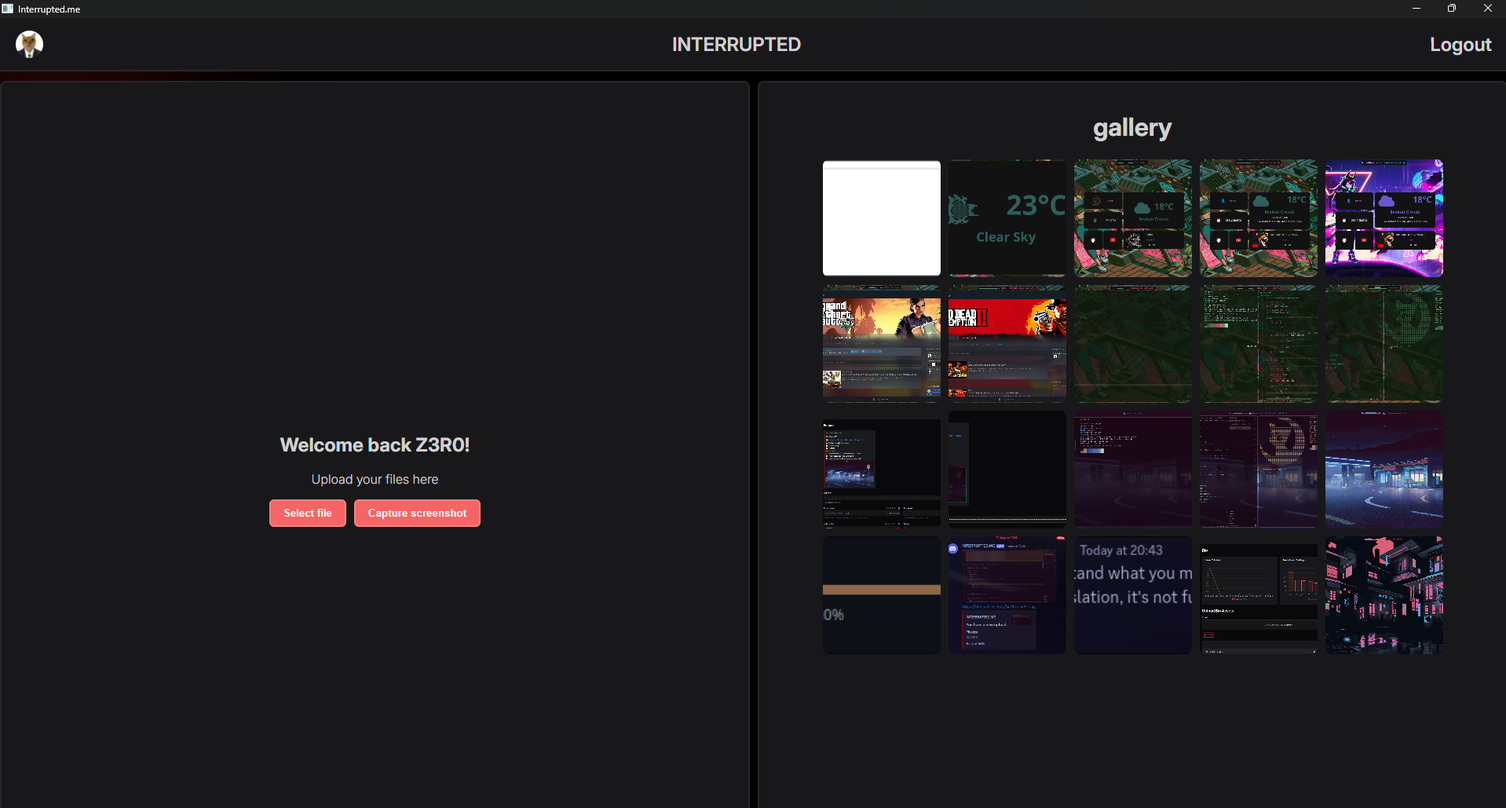
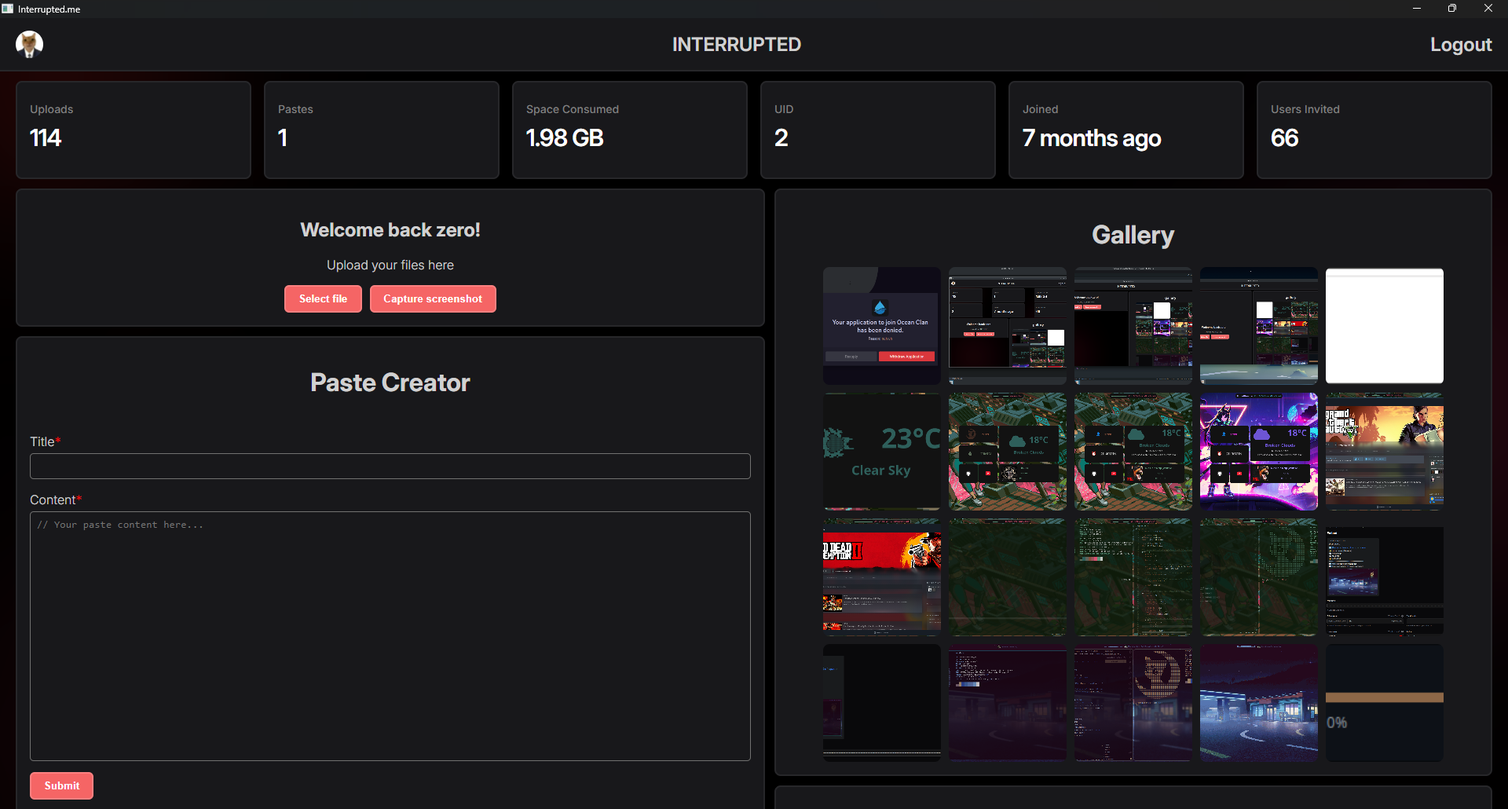
add url shortener

diff --git a/src/views/assets/dist/bundle.js b/src/views/assets/dist/bundle.js
@@ -1,2 +1,2 @@
 /*! For license information please see bundle.js.LICENSE.txt */
-(()=>{var t={455:(t,e,o)=>{"use strict";o.d(e,{A:()=>r});var n=o(601),i=o.n(n),s=o(314),a=o.n(s)()(i());a.push([t.id,"/*!\n * Toastify js 1.12.0\n * https://github.com/apvarun/toastify-js\n * @license MIT licensed\n *\n * Copyright (C) 2018 Varun A P\n */\n\n.toastify {\n    padding: 12px 20px;\n    color: #ffffff;\n    display: inline-block;\n    box-shadow: 0 3px 6px -1px rgba(0, 0, 0, 0.12), 0 10px 36px -4px rgba(77, 96, 232, 0.3);\n    background: -webkit-linear-gradient(315deg, #73a5ff, #5477f5);\n    background: linear-gradient(135deg, #73a5ff, #5477f5);\n    position: fixed;\n    opacity: 0;\n    transition: all 0.4s cubic-bezier(0.215, 0.61, 0.355, 1);\n    border-radius: 2px;\n    cursor: pointer;\n    text-decoration: none;\n    max-width: calc(50% - 20px);\n    z-index: 2147483647;\n}\n\n.toastify.on {\n    opacity: 1;\n}\n\n.toast-close {\n    background: transparent;\n    border: 0;\n    color: white;\n    cursor: pointer;\n    font-family: inherit;\n    font-size: 1em;\n    opacity: 0.4;\n    padding: 0 5px;\n}\n\n.toastify-right {\n    right: 15px;\n}\n\n.toastify-left {\n    left: 15px;\n}\n\n.toastify-top {\n    top: -150px;\n}\n\n.toastify-bottom {\n    bottom: -150px;\n}\n\n.toastify-rounded {\n    border-radius: 25px;\n}\n\n.toastify-avatar {\n    width: 1.5em;\n    height: 1.5em;\n    margin: -7px 5px;\n    border-radius: 2px;\n}\n\n.toastify-center {\n    margin-left: auto;\n    margin-right: auto;\n    left: 0;\n    right: 0;\n    max-width: fit-content;\n    max-width: -moz-fit-content;\n}\n\n@media only screen and (max-width: 360px) {\n    .toastify-right, .toastify-left {\n        margin-left: auto;\n        margin-right: auto;\n        left: 0;\n        right: 0;\n        max-width: fit-content;\n    }\n}\n",""]);const r=a},314:t=>{"use strict";t.exports=function(t){var e=[];return e.toString=function(){return this.map((function(e){var o="",n=void 0!==e[5];return e[4]&&(o+="@supports (".concat(e[4],") {")),e[2]&&(o+="@media ".concat(e[2]," {")),n&&(o+="@layer".concat(e[5].length>0?" ".concat(e[5]):""," {")),o+=t(e),n&&(o+="}"),e[2]&&(o+="}"),e[4]&&(o+="}"),o})).join("")},e.i=function(t,o,n,i,s){"string"==typeof t&&(t=[[null,t,void 0]]);var a={};if(n)for(var r=0;r<this.length;r++){var c=this[r][0];null!=c&&(a[c]=!0)}for(var d=0;d<t.length;d++){var l=[].concat(t[d]);n&&a[l[0]]||(void 0!==s&&(void 0===l[5]||(l[1]="@layer".concat(l[5].length>0?" ".concat(l[5]):""," {").concat(l[1],"}")),l[5]=s),o&&(l[2]?(l[1]="@media ".concat(l[2]," {").concat(l[1],"}"),l[2]=o):l[2]=o),i&&(l[4]?(l[1]="@supports (".concat(l[4],") {").concat(l[1],"}"),l[4]=i):l[4]="".concat(i)),e.push(l))}},e}},601:t=>{"use strict";t.exports=function(t){return t[1]}},72:t=>{"use strict";var e=[];function o(t){for(var o=-1,n=0;n<e.length;n++)if(e[n].identifier===t){o=n;break}return o}function n(t,n){for(var s={},a=[],r=0;r<t.length;r++){var c=t[r],d=n.base?c[0]+n.base:c[0],l=s[d]||0,p="".concat(d," ").concat(l);s[d]=l+1;var u=o(p),f={css:c[1],media:c[2],sourceMap:c[3],supports:c[4],layer:c[5]};if(-1!==u)e[u].references++,e[u].updater(f);else{var h=i(f,n);n.byIndex=r,e.splice(r,0,{identifier:p,updater:h,references:1})}a.push(p)}return a}function i(t,e){var o=e.domAPI(e);return o.update(t),function(e){if(e){if(e.css===t.css&&e.media===t.media&&e.sourceMap===t.sourceMap&&e.supports===t.supports&&e.layer===t.layer)return;o.update(t=e)}else o.remove()}}t.exports=function(t,i){var s=n(t=t||[],i=i||{});return function(t){t=t||[];for(var a=0;a<s.length;a++){var r=o(s[a]);e[r].references--}for(var c=n(t,i),d=0;d<s.length;d++){var l=o(s[d]);0===e[l].references&&(e[l].updater(),e.splice(l,1))}s=c}}},659:t=>{"use strict";var e={};t.exports=function(t,o){var n=function(t){if(void 0===e[t]){var o=document.querySelector(t);if(window.HTMLIFrameElement&&o instanceof window.HTMLIFrameElement)try{o=o.contentDocument.head}catch(t){o=null}e[t]=o}return e[t]}(t);if(!n)throw new Error("Couldn't find a style target. This probably means that the value for the 'insert' parameter is invalid.");n.appendChild(o)}},540:t=>{"use strict";t.exports=function(t){var e=document.createElement("style");return t.setAttributes(e,t.attributes),t.insert(e,t.options),e}},56:(t,e,o)=>{"use strict";t.exports=function(t){var e=o.nc;e&&t.setAttribute("nonce",e)}},825:t=>{"use strict";t.exports=function(t){if("undefined"==typeof document)return{update:function(){},remove:function(){}};var e=t.insertStyleElement(t);return{update:function(o){!function(t,e,o){var n="";o.supports&&(n+="@supports (".concat(o.supports,") {")),o.media&&(n+="@media ".concat(o.media," {"));var i=void 0!==o.layer;i&&(n+="@layer".concat(o.layer.length>0?" ".concat(o.layer):""," {")),n+=o.css,i&&(n+="}"),o.media&&(n+="}"),o.supports&&(n+="}");var s=o.sourceMap;s&&"undefined"!=typeof btoa&&(n+="\n/*# sourceMappingURL=data:application/json;base64,".concat(btoa(unescape(encodeURIComponent(JSON.stringify(s))))," */")),e.styleTagTransform(n,t,e.options)}(e,t,o)},remove:function(){!function(t){if(null===t.parentNode)return!1;t.parentNode.removeChild(t)}(e)}}}},113:t=>{"use strict";t.exports=function(t,e){if(e.styleSheet)e.styleSheet.cssText=t;else{for(;e.firstChild;)e.removeChild(e.firstChild);e.appendChild(document.createTextNode(t))}}},736:function(t){var e;e=function(t){var e=function(t){return new e.lib.init(t)};function o(t,e){return e.offset[t]?isNaN(e.offset[t])?e.offset[t]:e.offset[t]+"px":"0px"}function n(t,e){return!(!t||"string"!=typeof e||!(t.className&&t.className.trim().split(/\s+/gi).indexOf(e)>-1))}return e.defaults={oldestFirst:!0,text:"Toastify is awesome!",node:void 0,duration:3e3,selector:void 0,callback:function(){},destination:void 0,newWindow:!1,close:!1,gravity:"toastify-top",positionLeft:!1,position:"",backgroundColor:"",avatar:"",className:"",stopOnFocus:!0,onClick:function(){},offset:{x:0,y:0},escapeMarkup:!0,ariaLive:"polite",style:{background:""}},e.lib=e.prototype={toastify:"1.12.0",constructor:e,init:function(t){return t||(t={}),this.options={},this.toastElement=null,this.options.text=t.text||e.defaults.text,this.options.node=t.node||e.defaults.node,this.options.duration=0===t.duration?0:t.duration||e.defaults.duration,this.options.selector=t.selector||e.defaults.selector,this.options.callback=t.callback||e.defaults.callback,this.options.destination=t.destination||e.defaults.destination,this.options.newWindow=t.newWindow||e.defaults.newWindow,this.options.close=t.close||e.defaults.close,this.options.gravity="bottom"===t.gravity?"toastify-bottom":e.defaults.gravity,this.options.positionLeft=t.positionLeft||e.defaults.positionLeft,this.options.position=t.position||e.defaults.position,this.options.backgroundColor=t.backgroundColor||e.defaults.backgroundColor,this.options.avatar=t.avatar||e.defaults.avatar,this.options.className=t.className||e.defaults.className,this.options.stopOnFocus=void 0===t.stopOnFocus?e.defaults.stopOnFocus:t.stopOnFocus,this.options.onClick=t.onClick||e.defaults.onClick,this.options.offset=t.offset||e.defaults.offset,this.options.escapeMarkup=void 0!==t.escapeMarkup?t.escapeMarkup:e.defaults.escapeMarkup,this.options.ariaLive=t.ariaLive||e.defaults.ariaLive,this.options.style=t.style||e.defaults.style,t.backgroundColor&&(this.options.style.background=t.backgroundColor),this},buildToast:function(){if(!this.options)throw"Toastify is not initialized";var t=document.createElement("div");for(var e in t.className="toastify on "+this.options.className,this.options.position?t.className+=" toastify-"+this.options.position:!0===this.options.positionLeft?(t.className+=" toastify-left",console.warn("Property `positionLeft` will be depreciated in further versions. Please use `position` instead.")):t.className+=" toastify-right",t.className+=" "+this.options.gravity,this.options.backgroundColor&&console.warn('DEPRECATION NOTICE: "backgroundColor" is being deprecated. Please use the "style.background" property.'),this.options.style)t.style[e]=this.options.style[e];if(this.options.ariaLive&&t.setAttribute("aria-live",this.options.ariaLive),this.options.node&&this.options.node.nodeType===Node.ELEMENT_NODE)t.appendChild(this.options.node);else if(this.options.escapeMarkup?t.innerText=this.options.text:t.innerHTML=this.options.text,""!==this.options.avatar){var n=document.createElement("img");n.src=this.options.avatar,n.className="toastify-avatar","left"==this.options.position||!0===this.options.positionLeft?t.appendChild(n):t.insertAdjacentElement("afterbegin",n)}if(!0===this.options.close){var i=document.createElement("button");i.type="button",i.setAttribute("aria-label","Close"),i.className="toast-close",i.innerHTML="&#10006;",i.addEventListener("click",function(t){t.stopPropagation(),this.removeElement(this.toastElement),window.clearTimeout(this.toastElement.timeOutValue)}.bind(this));var s=window.innerWidth>0?window.innerWidth:screen.width;("left"==this.options.position||!0===this.options.positionLeft)&&s>360?t.insertAdjacentElement("afterbegin",i):t.appendChild(i)}if(this.options.stopOnFocus&&this.options.duration>0){var a=this;t.addEventListener("mouseover",(function(e){window.clearTimeout(t.timeOutValue)})),t.addEventListener("mouseleave",(function(){t.timeOutValue=window.setTimeout((function(){a.removeElement(t)}),a.options.duration)}))}if(void 0!==this.options.destination&&t.addEventListener("click",function(t){t.stopPropagation(),!0===this.options.newWindow?window.open(this.options.destination,"_blank"):window.location=this.options.destination}.bind(this)),"function"==typeof this.options.onClick&&void 0===this.options.destination&&t.addEventListener("click",function(t){t.stopPropagation(),this.options.onClick()}.bind(this)),"object"==typeof this.options.offset){var r=o("x",this.options),c=o("y",this.options),d="left"==this.options.position?r:"-"+r,l="toastify-top"==this.options.gravity?c:"-"+c;t.style.transform="translate("+d+","+l+")"}return t},showToast:function(){var t;if(this.toastElement=this.buildToast(),!(t="string"==typeof this.options.selector?document.getElementById(this.options.selector):this.options.selector instanceof HTMLElement||"undefined"!=typeof ShadowRoot&&this.options.selector instanceof ShadowRoot?this.options.selector:document.body))throw"Root element is not defined";var o=e.defaults.oldestFirst?t.firstChild:t.lastChild;return t.insertBefore(this.toastElement,o),e.reposition(),this.options.duration>0&&(this.toastElement.timeOutValue=window.setTimeout(function(){this.removeElement(this.toastElement)}.bind(this),this.options.duration)),this},hideToast:function(){this.toastElement.timeOutValue&&clearTimeout(this.toastElement.timeOutValue),this.removeElement(this.toastElement)},removeElement:function(t){t.className=t.className.replace(" on",""),window.setTimeout(function(){this.options.node&&this.options.node.parentNode&&this.options.node.parentNode.removeChild(this.options.node),t.parentNode&&t.parentNode.removeChild(t),this.options.callback.call(t),e.reposition()}.bind(this),400)}},e.reposition=function(){for(var t,e={top:15,bottom:15},o={top:15,bottom:15},i={top:15,bottom:15},s=document.getElementsByClassName("toastify"),a=0;a<s.length;a++){t=!0===n(s[a],"toastify-top")?"toastify-top":"toastify-bottom";var r=s[a].offsetHeight;t=t.substr(9,t.length-1),(window.innerWidth>0?window.innerWidth:screen.width)<=360?(s[a].style[t]=i[t]+"px",i[t]+=r+15):!0===n(s[a],"toastify-left")?(s[a].style[t]=e[t]+"px",e[t]+=r+15):(s[a].style[t]=o[t]+"px",o[t]+=r+15)}return this},e.lib.init.prototype=e.lib,e},t.exports?t.exports=e():this.Toastify=e()}},e={};function o(n){var i=e[n];if(void 0!==i)return i.exports;var s=e[n]={id:n,exports:{}};return t[n].call(s.exports,s,s.exports,o),s.exports}o.n=t=>{var e=t&&t.__esModule?()=>t.default:()=>t;return o.d(e,{a:e}),e},o.d=(t,e)=>{for(var n in e)o.o(e,n)&&!o.o(t,n)&&Object.defineProperty(t,n,{enumerable:!0,get:e[n]})},o.o=(t,e)=>Object.prototype.hasOwnProperty.call(t,e),o.nc=void 0,(()=>{"use strict";var t=o(736),e=o(72),n=o.n(e),i=o(825),s=o.n(i),a=o(659),r=o.n(a),c=o(56),d=o.n(c),l=o(540),p=o.n(l),u=o(113),f=o.n(u),h=o(455),m={};function g(){window.fetchGallery().then((e=>{const o=document.querySelector(".images");o.innerHTML="",e.forEach((e=>{const n=document.createElement("img");n.src=e.url,n.setAttribute("data-url",e.url),n.addEventListener("click",(e=>{const o=e.target.getAttribute("data-url");window.copyToClipboard(o).then((e=>{t({text:e,duration:5e3,gravity:"top",position:"right",stopOnFocus:!0,style:{background:"linear-gradient(to right, #d90f0f, #860909)"}}).showToast()}))})),o.appendChild(n)}))}))}m.styleTagTransform=f(),m.setAttributes=d(),m.insert=r().bind(null,"head"),m.domAPI=s(),m.insertStyleElement=p(),n()(h.A,m),h.A&&h.A.locals&&h.A.locals,document.getElementById("logout").addEventListener("click",(()=>{window.logOut()})),document.getElementById("select-file").addEventListener("click",(()=>{window.selectFile().then((e=>{t({text:e,duration:5e3,gravity:"top",position:"right",stopOnFocus:!0,style:{background:"linear-gradient(to right, #d90f0f, #860909)"}}).showToast(),g()}))})),document.getElementById("capture-screenshot").addEventListener("click",(()=>{window.fetchMonitors().then((e=>{const o=document.getElementById("monitor-list");o.innerHTML="",0!==e.length?e.forEach(((t,e)=>{const n=document.createElement("div");n.innerHTML=`\n  <p>Monitor ${e}: ${t.width}x${t.height}</p>\n  <button onclick="screenshot(${e})">Capture Screenshot</button>\n`,o.appendChild(n)})):t({text:"No monitors found!",duration:5e3,gravity:"top",position:"right",stopOnFocus:!0,style:{background:"linear-gradient(to right, #d90f0f, #860909)"}}).showToast()}))})),window.screenshot=function(e){window.captureScreenshot(e).then((e=>{t({text:e,duration:5e3,gravity:"top",position:"right",stopOnFocus:!0,style:{background:"linear-gradient(to right, #d90f0f, #860909)"}}).showToast(),g()}))},document.addEventListener("DOMContentLoaded",(e=>{window.fetchGallery().then((e=>{if(e.length>0){const o=document.querySelector(".images");e.forEach((e=>{const n=document.createElement("img");n.src=e.url,n.setAttribute("data-url",e.url),n.addEventListener("click",(e=>{const o=e.target.getAttribute("data-url");window.copyToClipboard(o).then((e=>{t({text:e,duration:5e3,gravity:"top",position:"right",stopOnFocus:!0,style:{background:"linear-gradient(to right, #d90f0f, #860909)"}}).showToast()}))})),o.appendChild(n)}))}}))})),document.getElementById("submit-paste").addEventListener("click",(()=>{const e=document.getElementById("paste-title"),o=document.getElementById("paste-content"),n=e.value,i=o.value;window.pasteText(n,i).then((n=>{e.value="",o.value="",t({text:n,duration:5e3,gravity:"top",position:"right",stopOnFocus:!0,style:{background:"linear-gradient(to right, #d90f0f, #860909)"}}).showToast()}))}))})()})();
+(()=>{var t={455:(t,e,o)=>{"use strict";o.d(e,{A:()=>r});var n=o(601),i=o.n(n),s=o(314),a=o.n(s)()(i());a.push([t.id,"/*!\n * Toastify js 1.12.0\n * https://github.com/apvarun/toastify-js\n * @license MIT licensed\n *\n * Copyright (C) 2018 Varun A P\n */\n\n.toastify {\n    padding: 12px 20px;\n    color: #ffffff;\n    display: inline-block;\n    box-shadow: 0 3px 6px -1px rgba(0, 0, 0, 0.12), 0 10px 36px -4px rgba(77, 96, 232, 0.3);\n    background: -webkit-linear-gradient(315deg, #73a5ff, #5477f5);\n    background: linear-gradient(135deg, #73a5ff, #5477f5);\n    position: fixed;\n    opacity: 0;\n    transition: all 0.4s cubic-bezier(0.215, 0.61, 0.355, 1);\n    border-radius: 2px;\n    cursor: pointer;\n    text-decoration: none;\n    max-width: calc(50% - 20px);\n    z-index: 2147483647;\n}\n\n.toastify.on {\n    opacity: 1;\n}\n\n.toast-close {\n    background: transparent;\n    border: 0;\n    color: white;\n    cursor: pointer;\n    font-family: inherit;\n    font-size: 1em;\n    opacity: 0.4;\n    padding: 0 5px;\n}\n\n.toastify-right {\n    right: 15px;\n}\n\n.toastify-left {\n    left: 15px;\n}\n\n.toastify-top {\n    top: -150px;\n}\n\n.toastify-bottom {\n    bottom: -150px;\n}\n\n.toastify-rounded {\n    border-radius: 25px;\n}\n\n.toastify-avatar {\n    width: 1.5em;\n    height: 1.5em;\n    margin: -7px 5px;\n    border-radius: 2px;\n}\n\n.toastify-center {\n    margin-left: auto;\n    margin-right: auto;\n    left: 0;\n    right: 0;\n    max-width: fit-content;\n    max-width: -moz-fit-content;\n}\n\n@media only screen and (max-width: 360px) {\n    .toastify-right, .toastify-left {\n        margin-left: auto;\n        margin-right: auto;\n        left: 0;\n        right: 0;\n        max-width: fit-content;\n    }\n}\n",""]);const r=a},314:t=>{"use strict";t.exports=function(t){var e=[];return e.toString=function(){return this.map((function(e){var o="",n=void 0!==e[5];return e[4]&&(o+="@supports (".concat(e[4],") {")),e[2]&&(o+="@media ".concat(e[2]," {")),n&&(o+="@layer".concat(e[5].length>0?" ".concat(e[5]):""," {")),o+=t(e),n&&(o+="}"),e[2]&&(o+="}"),e[4]&&(o+="}"),o})).join("")},e.i=function(t,o,n,i,s){"string"==typeof t&&(t=[[null,t,void 0]]);var a={};if(n)for(var r=0;r<this.length;r++){var c=this[r][0];null!=c&&(a[c]=!0)}for(var d=0;d<t.length;d++){var l=[].concat(t[d]);n&&a[l[0]]||(void 0!==s&&(void 0===l[5]||(l[1]="@layer".concat(l[5].length>0?" ".concat(l[5]):""," {").concat(l[1],"}")),l[5]=s),o&&(l[2]?(l[1]="@media ".concat(l[2]," {").concat(l[1],"}"),l[2]=o):l[2]=o),i&&(l[4]?(l[1]="@supports (".concat(l[4],") {").concat(l[1],"}"),l[4]=i):l[4]="".concat(i)),e.push(l))}},e}},601:t=>{"use strict";t.exports=function(t){return t[1]}},72:t=>{"use strict";var e=[];function o(t){for(var o=-1,n=0;n<e.length;n++)if(e[n].identifier===t){o=n;break}return o}function n(t,n){for(var s={},a=[],r=0;r<t.length;r++){var c=t[r],d=n.base?c[0]+n.base:c[0],l=s[d]||0,p="".concat(d," ").concat(l);s[d]=l+1;var u=o(p),f={css:c[1],media:c[2],sourceMap:c[3],supports:c[4],layer:c[5]};if(-1!==u)e[u].references++,e[u].updater(f);else{var h=i(f,n);n.byIndex=r,e.splice(r,0,{identifier:p,updater:h,references:1})}a.push(p)}return a}function i(t,e){var o=e.domAPI(e);return o.update(t),function(e){if(e){if(e.css===t.css&&e.media===t.media&&e.sourceMap===t.sourceMap&&e.supports===t.supports&&e.layer===t.layer)return;o.update(t=e)}else o.remove()}}t.exports=function(t,i){var s=n(t=t||[],i=i||{});return function(t){t=t||[];for(var a=0;a<s.length;a++){var r=o(s[a]);e[r].references--}for(var c=n(t,i),d=0;d<s.length;d++){var l=o(s[d]);0===e[l].references&&(e[l].updater(),e.splice(l,1))}s=c}}},659:t=>{"use strict";var e={};t.exports=function(t,o){var n=function(t){if(void 0===e[t]){var o=document.querySelector(t);if(window.HTMLIFrameElement&&o instanceof window.HTMLIFrameElement)try{o=o.contentDocument.head}catch(t){o=null}e[t]=o}return e[t]}(t);if(!n)throw new Error("Couldn't find a style target. This probably means that the value for the 'insert' parameter is invalid.");n.appendChild(o)}},540:t=>{"use strict";t.exports=function(t){var e=document.createElement("style");return t.setAttributes(e,t.attributes),t.insert(e,t.options),e}},56:(t,e,o)=>{"use strict";t.exports=function(t){var e=o.nc;e&&t.setAttribute("nonce",e)}},825:t=>{"use strict";t.exports=function(t){if("undefined"==typeof document)return{update:function(){},remove:function(){}};var e=t.insertStyleElement(t);return{update:function(o){!function(t,e,o){var n="";o.supports&&(n+="@supports (".concat(o.supports,") {")),o.media&&(n+="@media ".concat(o.media," {"));var i=void 0!==o.layer;i&&(n+="@layer".concat(o.layer.length>0?" ".concat(o.layer):""," {")),n+=o.css,i&&(n+="}"),o.media&&(n+="}"),o.supports&&(n+="}");var s=o.sourceMap;s&&"undefined"!=typeof btoa&&(n+="\n/*# sourceMappingURL=data:application/json;base64,".concat(btoa(unescape(encodeURIComponent(JSON.stringify(s))))," */")),e.styleTagTransform(n,t,e.options)}(e,t,o)},remove:function(){!function(t){if(null===t.parentNode)return!1;t.parentNode.removeChild(t)}(e)}}}},113:t=>{"use strict";t.exports=function(t,e){if(e.styleSheet)e.styleSheet.cssText=t;else{for(;e.firstChild;)e.removeChild(e.firstChild);e.appendChild(document.createTextNode(t))}}},736:function(t){var e;e=function(t){var e=function(t){return new e.lib.init(t)};function o(t,e){return e.offset[t]?isNaN(e.offset[t])?e.offset[t]:e.offset[t]+"px":"0px"}function n(t,e){return!(!t||"string"!=typeof e||!(t.className&&t.className.trim().split(/\s+/gi).indexOf(e)>-1))}return e.defaults={oldestFirst:!0,text:"Toastify is awesome!",node:void 0,duration:3e3,selector:void 0,callback:function(){},destination:void 0,newWindow:!1,close:!1,gravity:"toastify-top",positionLeft:!1,position:"",backgroundColor:"",avatar:"",className:"",stopOnFocus:!0,onClick:function(){},offset:{x:0,y:0},escapeMarkup:!0,ariaLive:"polite",style:{background:""}},e.lib=e.prototype={toastify:"1.12.0",constructor:e,init:function(t){return t||(t={}),this.options={},this.toastElement=null,this.options.text=t.text||e.defaults.text,this.options.node=t.node||e.defaults.node,this.options.duration=0===t.duration?0:t.duration||e.defaults.duration,this.options.selector=t.selector||e.defaults.selector,this.options.callback=t.callback||e.defaults.callback,this.options.destination=t.destination||e.defaults.destination,this.options.newWindow=t.newWindow||e.defaults.newWindow,this.options.close=t.close||e.defaults.close,this.options.gravity="bottom"===t.gravity?"toastify-bottom":e.defaults.gravity,this.options.positionLeft=t.positionLeft||e.defaults.positionLeft,this.options.position=t.position||e.defaults.position,this.options.backgroundColor=t.backgroundColor||e.defaults.backgroundColor,this.options.avatar=t.avatar||e.defaults.avatar,this.options.className=t.className||e.defaults.className,this.options.stopOnFocus=void 0===t.stopOnFocus?e.defaults.stopOnFocus:t.stopOnFocus,this.options.onClick=t.onClick||e.defaults.onClick,this.options.offset=t.offset||e.defaults.offset,this.options.escapeMarkup=void 0!==t.escapeMarkup?t.escapeMarkup:e.defaults.escapeMarkup,this.options.ariaLive=t.ariaLive||e.defaults.ariaLive,this.options.style=t.style||e.defaults.style,t.backgroundColor&&(this.options.style.background=t.backgroundColor),this},buildToast:function(){if(!this.options)throw"Toastify is not initialized";var t=document.createElement("div");for(var e in t.className="toastify on "+this.options.className,this.options.position?t.className+=" toastify-"+this.options.position:!0===this.options.positionLeft?(t.className+=" toastify-left",console.warn("Property `positionLeft` will be depreciated in further versions. Please use `position` instead.")):t.className+=" toastify-right",t.className+=" "+this.options.gravity,this.options.backgroundColor&&console.warn('DEPRECATION NOTICE: "backgroundColor" is being deprecated. Please use the "style.background" property.'),this.options.style)t.style[e]=this.options.style[e];if(this.options.ariaLive&&t.setAttribute("aria-live",this.options.ariaLive),this.options.node&&this.options.node.nodeType===Node.ELEMENT_NODE)t.appendChild(this.options.node);else if(this.options.escapeMarkup?t.innerText=this.options.text:t.innerHTML=this.options.text,""!==this.options.avatar){var n=document.createElement("img");n.src=this.options.avatar,n.className="toastify-avatar","left"==this.options.position||!0===this.options.positionLeft?t.appendChild(n):t.insertAdjacentElement("afterbegin",n)}if(!0===this.options.close){var i=document.createElement("button");i.type="button",i.setAttribute("aria-label","Close"),i.className="toast-close",i.innerHTML="&#10006;",i.addEventListener("click",function(t){t.stopPropagation(),this.removeElement(this.toastElement),window.clearTimeout(this.toastElement.timeOutValue)}.bind(this));var s=window.innerWidth>0?window.innerWidth:screen.width;("left"==this.options.position||!0===this.options.positionLeft)&&s>360?t.insertAdjacentElement("afterbegin",i):t.appendChild(i)}if(this.options.stopOnFocus&&this.options.duration>0){var a=this;t.addEventListener("mouseover",(function(e){window.clearTimeout(t.timeOutValue)})),t.addEventListener("mouseleave",(function(){t.timeOutValue=window.setTimeout((function(){a.removeElement(t)}),a.options.duration)}))}if(void 0!==this.options.destination&&t.addEventListener("click",function(t){t.stopPropagation(),!0===this.options.newWindow?window.open(this.options.destination,"_blank"):window.location=this.options.destination}.bind(this)),"function"==typeof this.options.onClick&&void 0===this.options.destination&&t.addEventListener("click",function(t){t.stopPropagation(),this.options.onClick()}.bind(this)),"object"==typeof this.options.offset){var r=o("x",this.options),c=o("y",this.options),d="left"==this.options.position?r:"-"+r,l="toastify-top"==this.options.gravity?c:"-"+c;t.style.transform="translate("+d+","+l+")"}return t},showToast:function(){var t;if(this.toastElement=this.buildToast(),!(t="string"==typeof this.options.selector?document.getElementById(this.options.selector):this.options.selector instanceof HTMLElement||"undefined"!=typeof ShadowRoot&&this.options.selector instanceof ShadowRoot?this.options.selector:document.body))throw"Root element is not defined";var o=e.defaults.oldestFirst?t.firstChild:t.lastChild;return t.insertBefore(this.toastElement,o),e.reposition(),this.options.duration>0&&(this.toastElement.timeOutValue=window.setTimeout(function(){this.removeElement(this.toastElement)}.bind(this),this.options.duration)),this},hideToast:function(){this.toastElement.timeOutValue&&clearTimeout(this.toastElement.timeOutValue),this.removeElement(this.toastElement)},removeElement:function(t){t.className=t.className.replace(" on",""),window.setTimeout(function(){this.options.node&&this.options.node.parentNode&&this.options.node.parentNode.removeChild(this.options.node),t.parentNode&&t.parentNode.removeChild(t),this.options.callback.call(t),e.reposition()}.bind(this),400)}},e.reposition=function(){for(var t,e={top:15,bottom:15},o={top:15,bottom:15},i={top:15,bottom:15},s=document.getElementsByClassName("toastify"),a=0;a<s.length;a++){t=!0===n(s[a],"toastify-top")?"toastify-top":"toastify-bottom";var r=s[a].offsetHeight;t=t.substr(9,t.length-1),(window.innerWidth>0?window.innerWidth:screen.width)<=360?(s[a].style[t]=i[t]+"px",i[t]+=r+15):!0===n(s[a],"toastify-left")?(s[a].style[t]=e[t]+"px",e[t]+=r+15):(s[a].style[t]=o[t]+"px",o[t]+=r+15)}return this},e.lib.init.prototype=e.lib,e},t.exports?t.exports=e():this.Toastify=e()}},e={};function o(n){var i=e[n];if(void 0!==i)return i.exports;var s=e[n]={id:n,exports:{}};return t[n].call(s.exports,s,s.exports,o),s.exports}o.n=t=>{var e=t&&t.__esModule?()=>t.default:()=>t;return o.d(e,{a:e}),e},o.d=(t,e)=>{for(var n in e)o.o(e,n)&&!o.o(t,n)&&Object.defineProperty(t,n,{enumerable:!0,get:e[n]})},o.o=(t,e)=>Object.prototype.hasOwnProperty.call(t,e),o.nc=void 0,(()=>{"use strict";var t=o(736),e=o(72),n=o.n(e),i=o(825),s=o.n(i),a=o(659),r=o.n(a),c=o(56),d=o.n(c),l=o(540),p=o.n(l),u=o(113),f=o.n(u),h=o(455),m={};function g(){window.fetchGallery().then((e=>{const o=document.querySelector(".images");o.innerHTML="",e.forEach((e=>{const n=document.createElement("img");n.src=e.url,n.setAttribute("data-url",e.url),n.addEventListener("click",(e=>{const o=e.target.getAttribute("data-url");window.copyToClipboard(o).then((e=>{t({text:e,duration:5e3,gravity:"top",position:"right",stopOnFocus:!0,style:{background:"linear-gradient(to right, #d90f0f, #860909)"}}).showToast()}))})),o.appendChild(n)}))}))}m.styleTagTransform=f(),m.setAttributes=d(),m.insert=r().bind(null,"head"),m.domAPI=s(),m.insertStyleElement=p(),n()(h.A,m),h.A&&h.A.locals&&h.A.locals,document.getElementById("logout").addEventListener("click",(()=>{window.logOut()})),document.getElementById("select-file").addEventListener("click",(()=>{window.selectFile().then((e=>{t({text:e,duration:5e3,gravity:"top",position:"right",stopOnFocus:!0,style:{background:"linear-gradient(to right, #d90f0f, #860909)"}}).showToast(),g()}))})),document.getElementById("capture-screenshot").addEventListener("click",(()=>{window.fetchMonitors().then((e=>{const o=document.getElementById("monitor-list");o.innerHTML="",0!==e.length?e.forEach(((t,e)=>{const n=document.createElement("div");n.innerHTML=`\n  <p>Monitor ${e}: ${t.width}x${t.height}</p>\n  <button onclick="screenshot(${e})">Capture Screenshot</button>\n`,o.appendChild(n)})):t({text:"No monitors found!",duration:5e3,gravity:"top",position:"right",stopOnFocus:!0,style:{background:"linear-gradient(to right, #d90f0f, #860909)"}}).showToast()}))})),window.screenshot=function(e){window.captureScreenshot(e).then((e=>{t({text:e,duration:5e3,gravity:"top",position:"right",stopOnFocus:!0,style:{background:"linear-gradient(to right, #d90f0f, #860909)"}}).showToast(),g()}))},document.addEventListener("DOMContentLoaded",(e=>{window.fetchGallery().then((e=>{if(e.length>0){const o=document.querySelector(".images");e.forEach((e=>{const n=document.createElement("img");n.src=e.url,n.setAttribute("data-url",e.url),n.addEventListener("click",(e=>{const o=e.target.getAttribute("data-url");window.copyToClipboard(o).then((e=>{t({text:e,duration:5e3,gravity:"top",position:"right",stopOnFocus:!0,style:{background:"linear-gradient(to right, #d90f0f, #860909)"}}).showToast()}))})),o.appendChild(n)}))}}))})),document.getElementById("submit-paste").addEventListener("click",(()=>{const e=document.getElementById("paste-title"),o=document.getElementById("paste-content"),n=e.value,i=o.value;window.pasteText(n,i).then((n=>{e.value="",o.value="",t({text:n,duration:5e3,gravity:"top",position:"right",stopOnFocus:!0,style:{background:"linear-gradient(to right, #d90f0f, #860909)"}}).showToast()}))})),document.getElementById("shorten").addEventListener("click",(()=>{const e=document.getElementById("shorten-url"),o=e.value;window.shortenUrl(o).then((o=>{e.value="",t({text:o,duration:5e3,gravity:"top",position:"right",stopOnFocus:!0,style:{background:"linear-gradient(to right, #d90f0f, #860909)"}}).showToast()}))}))})()})();

diff --git a/src/views/assets/index.css b/src/views/assets/index.css
@@ -144,6 +144,15 @@ nav {
   gap: 0.75rem;
   margin: 0.75rem 20px 20px 20px;
 }
+
+.side-content {
+  display: flex;
+  flex-direction: column;
+  gap: 0.75rem;
+  width: 100%;
+  height: 100%;
+}
+
 .upload-container {
   display: flex;
   flex-direction: column;
@@ -176,6 +185,38 @@ nav {
   min-height: 100%;
   margin-right: 40px;
   flex-grow: 1;
+}
+
+.url-shortener {
+  background-color: rgb(24, 24, 27);
+  border: 2px solid rgb(39, 39, 42);
+  border-radius: 0.5rem;
+  padding: 1rem;
+  box-sizing: border-box;
+  display: flex;
+  flex-direction: column;
+  text-align: center;
+  min-height: 100%;
+  margin-right: 40px;
+  flex-grow: 1;
+}
+
+.shorten {
+  display: flex;
+  flex-direction: column;
+  justify-content: start;
+  align-items: start;
+  width: 100%;
+  padding: 0.5rem;
+}
+
+.shorten-url-container {
+  display: flex;
+  width: 100%;
+}
+
+.shorten p {
+  margin-bottom: 5px;
 }
 
 .paste-container {
@@ -224,7 +265,7 @@ nav {
   margin-bottom: 5px;
 }
 
-.paste-title {
+input {
   padding: .5rem;
   appearance: none;
   border-radius: 0.3rem;
@@ -232,10 +273,10 @@ nav {
   background-color: rgb(24, 24, 27);
   color: white;
   --tw-shadow: 0 0 #0000;
-  flex-grow: 1;
+  width: 100%;
 }
 
-.paste-title:focus {
+input:focus {
   outline: none;
   border: 1px solid rgb(255, 0, 0);
 }

diff --git a/src/views/assets/index.html b/src/views/assets/index.html
@@ -85,10 +85,24 @@
           </div>
         </div>
       </div>
-      <div id="gallery-content" class="upload-container">
-        <div class="gallery-contents">
-          <h1>Gallery</h1>
-          <div class="images"></div>
+      <div class="side-content">
+        <div id="gallery-content" class="upload-container">
+          <div class="gallery-contents">
+            <h1>Gallery</h1>
+            <div class="images"></div>
+          </div>
+        </div>
+        <div class="url-shortener">
+          <h1>URL Shortener</h1>
+          <div class="shorten">
+            <p>URL<span class="required">*</span></p>
+            <div class="shorten-url-container">
+              <input type="url" id="shorten-url" class="shorten-url" />
+            </div><br>
+            <div class="shorten-actions">
+              <button id="shorten">Shorten</button>
+            </div>
+          </div>
         </div>
       </div>
     </main>

diff --git a/src/index.js b/src/index.js
@@ -159,3 +159,24 @@ paste.addEventListener("click", () => {
     }).showToast();
   });
 });
+
+const shorten = document.getElementById("shorten");
+shorten.addEventListener("click", () => {
+  const url = document.getElementById("shorten-url");
+
+  const urlValue = url.value;
+
+  window.shortenUrl(urlValue).then((response) => {
+    url.value = "";
+    Toastify({
+        text: response,
+        duration: 5000,
+        gravity: "top",
+        position: "right",
+        stopOnFocus: true,
+        style: {
+          background: "linear-gradient(to right, #d90f0f, #860909)",
+        },
+    }).showToast();
+  });
+});

diff --git a/src/views/views.go b/src/views/views.go
@@ -193,6 +193,52 @@ func ShowDefaultView(apiKey string) {
 		return fmt.Sprintf("Paste '%s' uploaded and URL copied to clipboard!", pasteTitle)
 	})
 
+	w.Bind("shortenUrl", func(destinationUrl string) string {
+		formData := url.Values{
+			"url": {destinationUrl},
+		}
+
+		headers := map[string]string{
+			"User-Agent":    "ShareX/16.1.0",
+			"Content-Type":  "application/x-www-form-urlencoded",
+			"Authorization": "Bearer " + apiKey,
+		}
+
+		resp, err := utils.SendAPIRequest("POST", "https://api.interrupted.me/shorten", strings.NewReader(formData.Encode()), headers)
+		if err != nil {
+			fmt.Printf("error performing request: %s\n", err)
+			return "Error performing request"
+		}
+		defer resp.Body.Close()
+
+		body, err := io.ReadAll(resp.Body)
+		if err != nil {
+			fmt.Printf("error reading response body: %s\n", err)
+			return "Error reading response body"
+		}
+
+		var shortenResponse types.ShortenResponse
+		err = json.Unmarshal(body, &shortenResponse)
+		if err != nil {
+			fmt.Printf("error unmarshalling response body: %s\n", err)
+			return "Error unmarshalling response body"
+		}
+
+		if resp.StatusCode != http.StatusOK {
+			if !shortenResponse.Success {
+				fmt.Printf("API error: %v\n", shortenResponse)
+				return "Unknown error"
+			} else {
+				fmt.Printf("API error: unknown error\n")
+				return "Unknown error"
+			}
+		}
+
+		url := shortenResponse.Url[0].ShortUrl
+		clipboard.Write(clipboard.FmtText, []byte(url))
+		return "Url uploaded and copied to clipboard!"
+	})
+
 	w.Bind("fetchMonitors", func() interface{} {
 		numDisplays := screenshot.NumActiveDisplays()
 		var monitors []map[string]int

diff --git a/src/types/types.go b/src/types/types.go
@@ -49,6 +49,15 @@ type File struct {
 	DeleteURL string `json:"delete_url"`
 }
 
+type ShortenResponse struct {
+	Success bool  `json:"success"`
+	Url     []Url `json:"data"`
+}
+
+type Url struct {
+	ShortUrl string `json:"url"`
+}
+
 type LoginResponse struct {
 	Status  string  `json:"status"`
 	Message *string `json:"message"`
